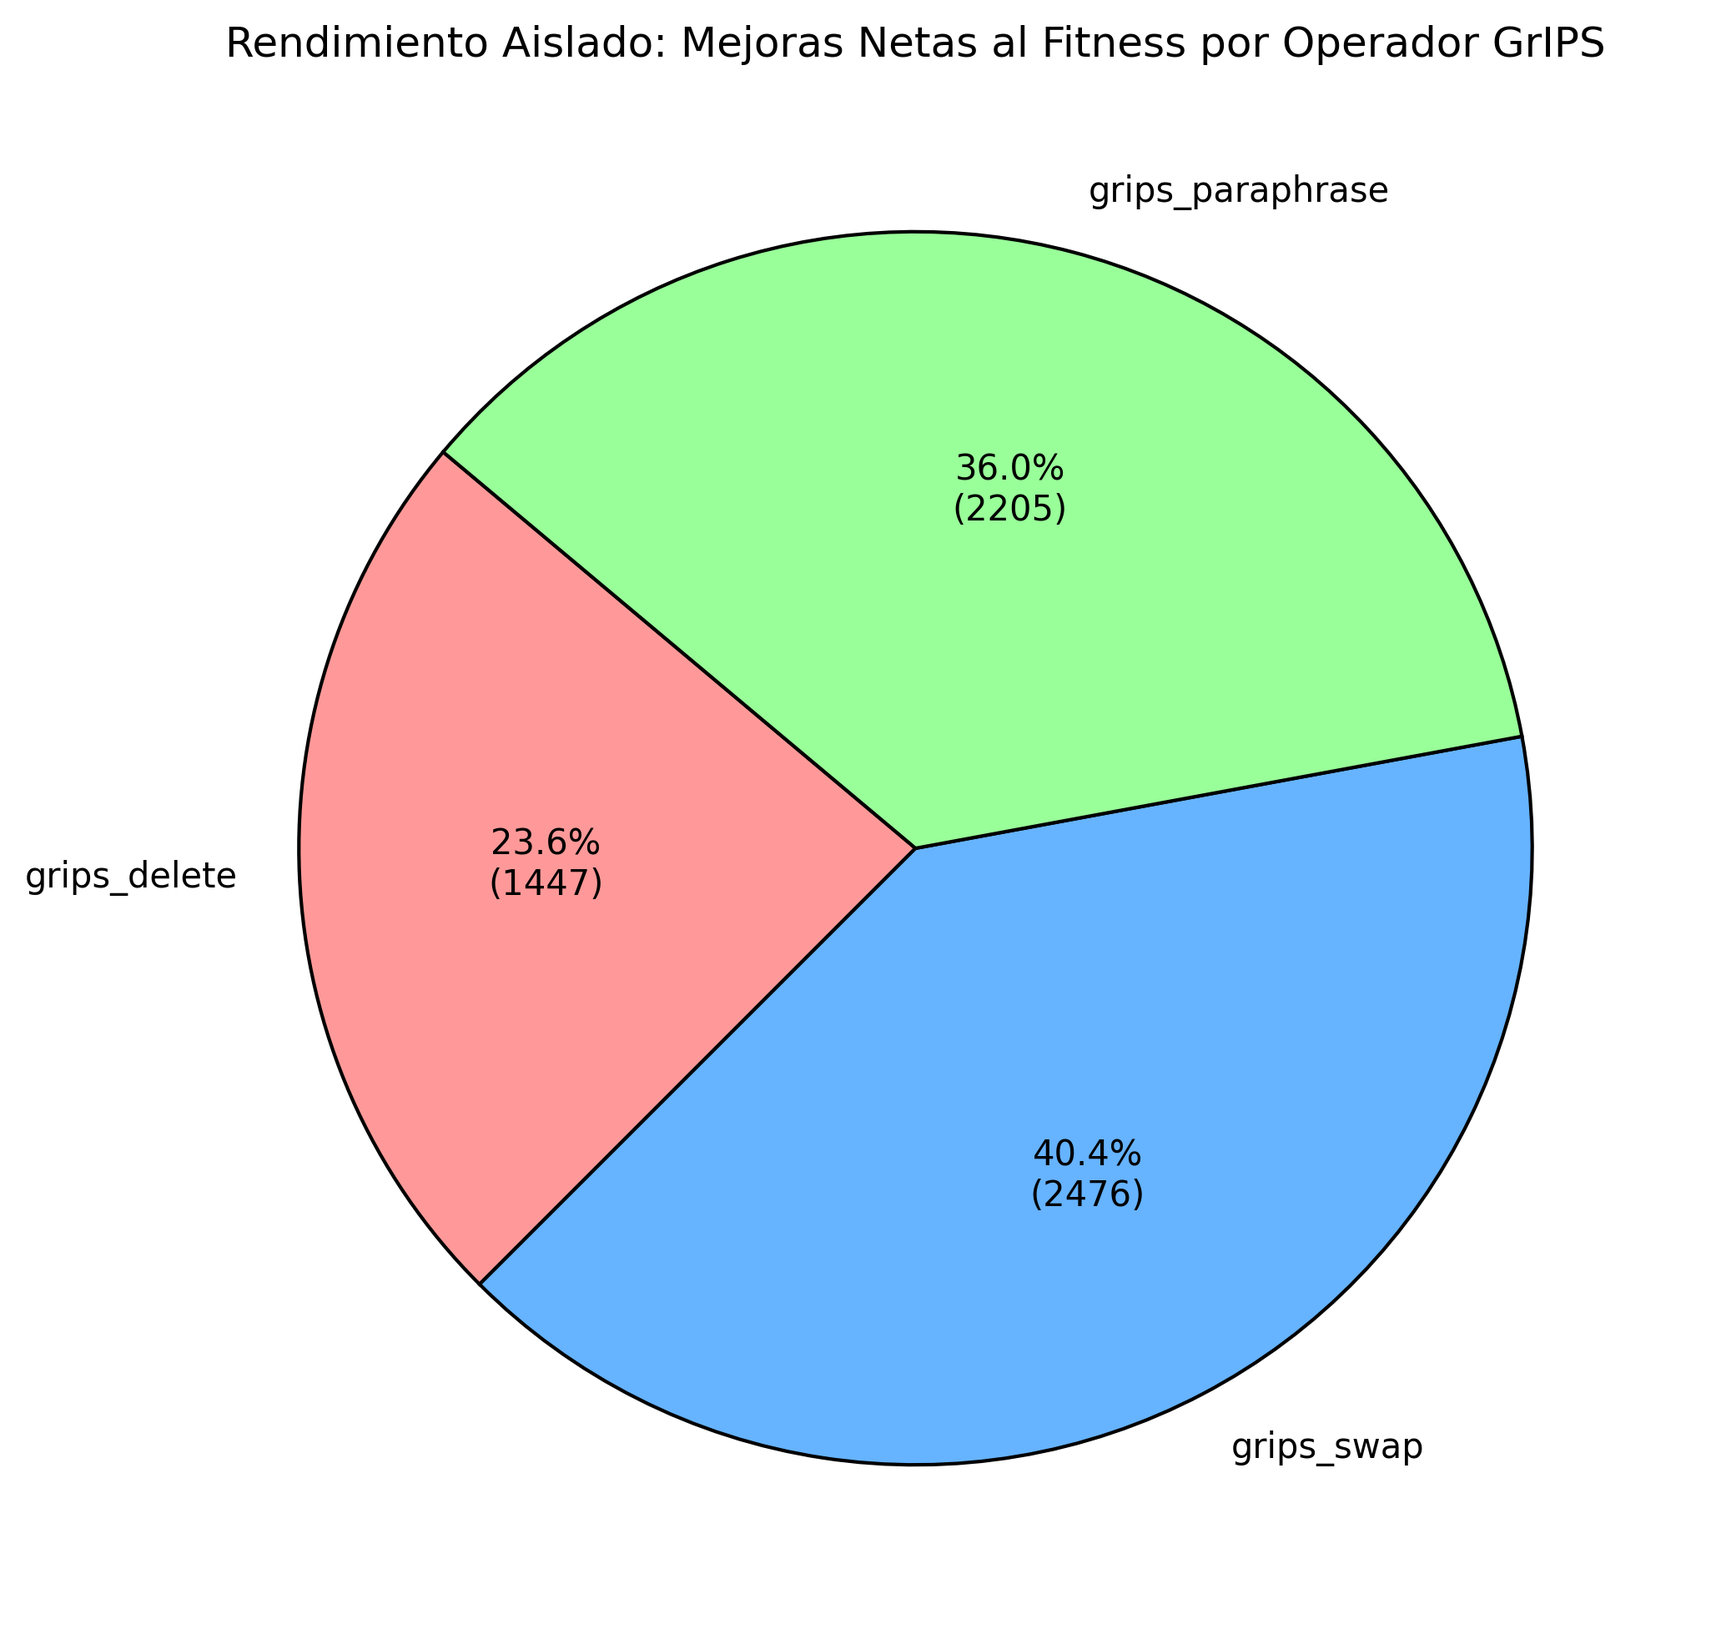
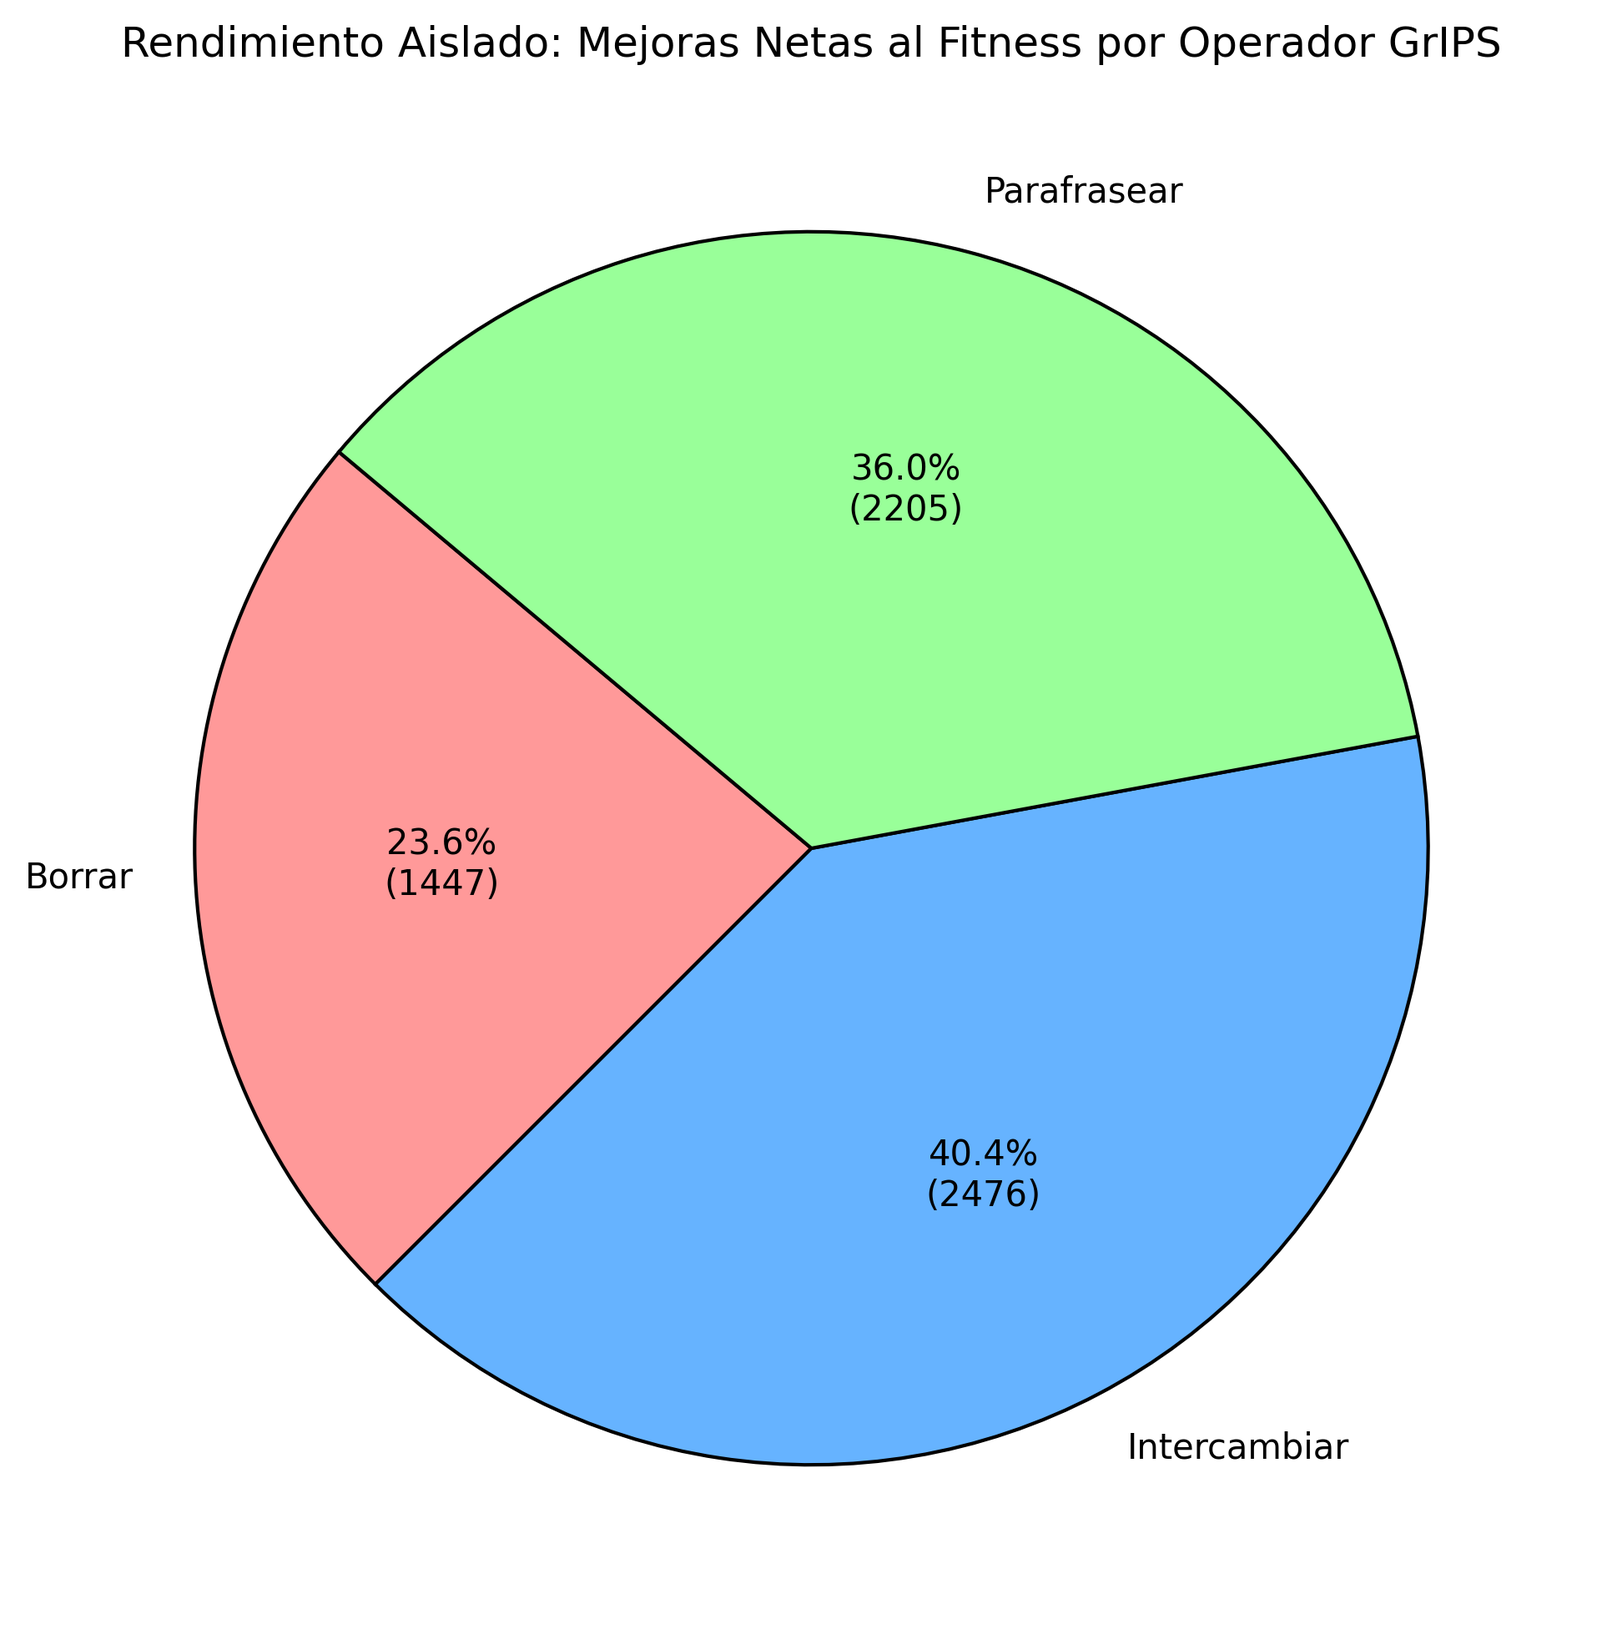
fix: Penultimo

diff --git a/generar_anexos_latex.py b/generar_anexos_latex.py
@@ -1,0 +1,241 @@
+import json
+import os
+import numpy as np
+
+def jaccard_similarity(text1, text2):
+    set1 = set(text1.lower().split())
+    set2 = set(text2.lower().split())
+    union = set1.union(set2)
+    if not union:
+        return 0.0
+    return len(set1.intersection(set2)) / len(union)
+
+def escape_latex(text):
+    chars = {
+        '&': r'\&', '%': r'\%', '$': r'\$', '#': r'\#', '_': r'\_', '{': r'\{', '}': r'\}',
+        '~': r'\textasciitilde{}', '^': r'\textasciicircum{}', '\\': r'\textbackslash{}'
+    }
+    for k, v in chars.items():
+        text = text.replace(k, v)
+    return text
+
+def generar_anexos():
+    ruta_exp1 = os.path.join("Resultados - Exp 1", "exp1_base.json")
+    ruta_exp2 = os.path.join("Resultados - Exp 2", "exp2_sensibilidad.json")
+    ruta_exp3 = os.path.join("Resultados - Exp 3", "exp3_cruzada_off.json")
+    ruta_out = r"C:\Users\renac\Downloads\Memoria\Memoria_Renato_Scatter\tesis-udp\ejemplo\anexos.tex"
+    
+    latex = []
+    latex.append(r"\appendix")
+    latex.append(r"\chapter{Anexos de Resultados Experimentales}")
+    latex.append(r"\label{ch:anexos}")
+    latex.append("")
+    latex.append(r"Este apartado documenta los resultados detallados que respaldan el análisis empírico presentado en el Capítulo \ref{ch:implementacion_evaluacion}.")
+    latex.append("")
+
+    # ==========================================
+    # ANEXO A: HISTORIAL DE CONVERGENCIA (EXP 1)
+    # ==========================================
+    latex.append(r"\section{Anexo A: Historial de Convergencia (Experimento 1)}")
+    if os.path.exists(ruta_exp1):
+        with open(ruta_exp1, "r", encoding="utf-8") as f:
+            runs1 = json.load(f)
+        
+        latex.append(r"\begin{table}[H]")
+        latex.append(r"\centering")
+        latex.append(r"\begin{tabular}{cccccc}")
+        latex.append(r"\toprule")
+        latex.append(r"\textbf{Generación} & \textbf{Corrida 1} & \textbf{Corrida 2} & \textbf{Corrida 3} & \textbf{Corrida 4} & \textbf{Corrida 5} \\")
+        latex.append(r"\midrule")
+        
+        # Asumimos que todas tienen 10 generaciones (0 a 10)
+        num_gens = len(runs1[0]['historial_convergencia'])
+        for g in range(num_gens):
+            fila = [str(g)]
+            for run in runs1:
+                hist = run['historial_convergencia']
+                mejor = hist[g]['mejor_sbert'] if g < len(hist) else hist[-1]['mejor_sbert']
+                fila.append(f"{mejor:.4f}")
+            latex.append(" & ".join(fila) + r" \\")
+            
+        latex.append(r"\bottomrule")
+        latex.append(r"\end{tabular}")
+        latex.append(r"\caption{Evolución del mejor puntaje SBERT por generación a lo largo de 5 ejecuciones independientes (Configuración Base).}")
+        latex.append(r"\label{tab:anexo_a}")
+        latex.append(r"\end{table}")
+        
+        latex.append("")
+        latex.append(r"\noindent \textbf{Tiempos de ejecución:} ")
+        tiempos = [f"C{i+1}: {r['configuracion']['tiempo_ejecucion_minutos']:.2f} min" for i, r in enumerate(runs1)]
+        latex.append(", ".join(tiempos) + ".")
+        latex.append("")
+
+    # ==========================================
+    # ANEXO B: EJEMPLOS CUALITATIVOS (EXP 1)
+    # ==========================================
+    latex.append(r"\newpage")
+    latex.append(r"\section{Anexo B: Ejemplos Cualitativos de Instrucciones (Experimento 1)}")
+    
+    if os.path.exists(ruta_exp1):
+        # Buscamos la mejor corrida (mayor SBERT en última generación)
+        mejor_run = max(runs1, key=lambda x: x['historial_convergencia'][-1]['mejor_sbert'])
+        # Top 5 individuos del refset final
+        top5 = sorted(mejor_run['refset_final'], key=lambda x: x.get('sbert', 0.0), reverse=True)[:5]
+        
+        latex.append(r"A continuación se exponen las cinco mejores instrucciones generadas por la metaheurística SS-GrIPS durante la corrida más exitosa del Experimento Base, contrastadas directamente con el texto objetivo.")
+        latex.append("")
+        
+        for i, ind in enumerate(top5):
+            gen = ind.get('tweet_generado', '')
+            real = ind.get('tweet_real_match', '')
+            sbert = ind.get('sbert', 0.0)
+            jacc = jaccard_similarity(gen, real)
+            
+            latex.append(r"\begin{table}[H]")
+            latex.append(r"\centering")
+            latex.append(r"\begin{tabular}{p{0.45\textwidth} p{0.45\textwidth}}")
+            latex.append(r"\toprule")
+            latex.append(r"\textbf{Texto Objetivo (Original)} & \textbf{Instrucción Generada (SS-GrIPS)} \\")
+            latex.append(r"\midrule")
+            latex.append(f"{escape_latex(real)} & {escape_latex(gen)} \\\\")
+            latex.append(r"\midrule")
+            latex.append(r"\multicolumn{2}{c}{\textbf{Métricas:} SBERT = " + f"{sbert:.4f}" + r" | Jaccard = " + f"{jacc*100:.2f}\\%" + r"} \\")
+            latex.append(r"\bottomrule")
+            latex.append(r"\end{tabular}")
+            latex.append(f"\\caption{{Par cualitativo número {i+1} extraído del Top 5 de la mejor población.}}")
+            latex.append(r"\end{table}")
+            latex.append("")
+
+    # ==========================================
+    # ANEXO C: SENSIBILIDAD (EXP 2)
+    # ==========================================
+    latex.append(r"\newpage")
+    latex.append(r"\section{Anexo C: Datos de Sensibilidad (Experimento 2)}")
+    if os.path.exists(ruta_exp2):
+        with open(ruta_exp2, "r", encoding="utf-8") as f:
+            data2 = json.load(f)
+            
+        orden = ['conf_G5_R10', 'conf_G10_R5', 'conf_G10_R10', 'conf_G15_R10', 'conf_G10_R15']
+        
+        latex.append(r"\begin{table}[H]")
+        latex.append(r"\centering")
+        latex.append(r"\begin{tabular}{l c c c | c c}")
+        latex.append(r"\toprule")
+        latex.append(r"\textbf{Configuración} & \textbf{Corrida 1} & \textbf{Corrida 2} & \textbf{Corrida 3} & \textbf{Prom. SBERT} & \textbf{Prom. Tiempo} \\")
+        latex.append(r"\midrule")
+        
+        for c in orden:
+            if c in data2:
+                runs = data2[c]
+                sberts = [r['historial_convergencia'][-1]['mejor_sbert'] for r in runs]
+                tiempos = [r['configuracion']['tiempo_ejecucion_minutos'] for r in runs]
+                
+                # Completar si hay menos de 3 corridas
+                while len(sberts) < 3:
+                    sberts.append(0.0)
+                
+                prom_sbert = np.mean(sberts)
+                prom_tiempo = np.mean(tiempos)
+                
+                fila = f"{escape_latex(c)} & {sberts[0]:.4f} & {sberts[1]:.4f} & {sberts[2]:.4f} & \textbf{{{prom_sbert:.4f}}} & \textbf{{{prom_tiempo:.1f} m}} \\\\"
+                latex.append(fila)
+        
+        latex.append(r"\bottomrule")
+        latex.append(r"\end{tabular}")
+        latex.append(r"\caption{Métricas detalladas para el análisis de sensibilidad según configuración de hiperparámetros.}")
+        latex.append(r"\label{tab:anexo_c}")
+        latex.append(r"\end{table}")
+        latex.append("")
+
+    # ==========================================
+    # ANEXO D: DATA LEAKAGE (EXP 3)
+    # ==========================================
+    latex.append(r"\newpage")
+    latex.append(r"\section{Anexo D: Efecto Data Leakage (Experimento 3)}")
+    if os.path.exists(ruta_exp1) and os.path.exists(ruta_exp3):
+        with open(ruta_exp3, "r", encoding="utf-8") as f:
+            runs3 = json.load(f)
+            
+        # Tomamos 3 corridas del exp1 (ON) y 3 del exp3 (OFF)
+        runs_on = runs1[:3]
+        runs_off = runs3[:3]
+        
+        latex.append(r"\begin{table}[H]")
+        latex.append(r"\centering")
+        latex.append(r"\begin{tabular}{c | c c | c c}")
+        latex.append(r"\toprule")
+        latex.append(r" & \multicolumn{2}{c|}{\textbf{Validación Cruzada (ON)}} & \multicolumn{2}{c}{\textbf{Data Leakage (OFF)}} \\")
+        latex.append(r"\textbf{Corrida} & \textbf{SBERT} & \textbf{Jaccard} & \textbf{SBERT} & \textbf{Jaccard} \\")
+        latex.append(r"\midrule")
+        
+        sum_sbert_on = sum_jacc_on = sum_sbert_off = sum_jacc_off = 0
+        
+        for i in range(3):
+            # ON
+            sbert_on = runs_on[i]['historial_convergencia'][-1]['mejor_sbert']
+            jaccs_on = [jaccard_similarity(ind.get('tweet_generado',''), ind.get('tweet_real_match','')) for ind in runs_on[i]['refset_final']]
+            jacc_on = np.mean(jaccs_on)
+            
+            # OFF
+            sbert_off = runs_off[i]['historial_convergencia'][-1]['mejor_sbert']
+            jaccs_off = [jaccard_similarity(ind.get('tweet_generado',''), ind.get('tweet_real_match','')) for ind in runs_off[i]['refset_final']]
+            jacc_off = np.mean(jaccs_off)
+            
+            sum_sbert_on += sbert_on; sum_jacc_on += jacc_on
+            sum_sbert_off += sbert_off; sum_jacc_off += jacc_off
+            
+            latex.append(f"{i+1} & {sbert_on:.4f} & {jacc_on*100:.2f}\\% & {sbert_off:.4f} & {jacc_off*100:.2f}\\% \\\\")
+            
+        latex.append(r"\midrule")
+        prom_sbert_on = sum_sbert_on/3; prom_jacc_on = sum_jacc_on/3
+        prom_sbert_off = sum_sbert_off/3; prom_jacc_off = sum_jacc_off/3
+        latex.append(f"\\textbf{{Promedio}} & \\textbf{{{prom_sbert_on:.4f}}} & \\textbf{{{prom_jacc_on*100:.2f}\\%}} & \\textbf{{{prom_sbert_off:.4f}}} & \\textbf{{{prom_jacc_off*100:.2f}\\%}} \\\\")
+        
+        latex.append(r"\bottomrule")
+        latex.append(r"\end{tabular}")
+        latex.append(r"\caption{Comparativa directa del influjo de métricas al evaluar el algoritmo sobre su propio conjunto de datos (Data Leakage).}")
+        latex.append(r"\label{tab:anexo_d}")
+        latex.append(r"\end{table}")
+        latex.append("")
+
+    # ==========================================
+    # ANEXO E: ESTADÍSTICAS GRIPS (EXP 1)
+    # ==========================================
+    latex.append(r"\newpage")
+    latex.append(r"\section{Anexo E: Rendimiento de los Operadores GrIPS (Experimento 1)}")
+    if os.path.exists(ruta_exp1):
+        latex.append(r"\begin{table}[H]")
+        latex.append(r"\centering")
+        latex.append(r"\begin{tabular}{l c c c c}")
+        latex.append(r"\toprule")
+        latex.append(r"\textbf{Operador} & \textbf{Intentos Totales} & \textbf{Éxitos Totales} & \textbf{Tasa de Éxito} & \textbf{Aporte SBERT Total} \\")
+        latex.append(r"\midrule")
+        
+        totales = {"grips_delete": [0,0,0.0], "grips_swap": [0,0,0.0], "grips_paraphrase": [0,0,0.0]}
+        for run in runs1:
+            for op in totales.keys():
+                st = run["stats_grips"].get(op, {})
+                totales[op][0] += st.get("intentos", 0)
+                totales[op][1] += st.get("exitos", 0)
+                totales[op][2] += st.get("mejora_acumulada", 0.0)
+                
+        for op, vals in totales.items():
+            intentos = vals[0]
+            exitos = vals[1]
+            mejora = vals[2]
+            tasa = (exitos / intentos * 100) if intentos > 0 else 0
+            latex.append(f"{escape_latex(op)} & {intentos} & {exitos} & {tasa:.2f}\\% & {mejora:.4f} \\\\")
+            
+        latex.append(r"\bottomrule")
+        latex.append(r"\end{tabular}")
+        latex.append(r"\caption{Estadísticas acumuladas de los operadores de edición tras 5 corridas. El operador Add fue retirado por ineficacia empírica.}")
+        latex.append(r"\label{tab:anexo_e}")
+        latex.append(r"\end{table}")
+
+    # Escribir el archivo
+    with open(ruta_out, "w", encoding="utf-8") as f:
+        f.write("\n".join(latex))
+    print(f"Anexos generados con exito en: {ruta_out}")
+
+if __name__ == "__main__":
+    generar_anexos()

diff --git a/run_comparativa.py b/run_comparativa.py
@@ -159,6 +159,78 @@ def experimento_4_temperaturas():
         json.dump(resultados_totales, f, indent=4, ensure_ascii=False)
     print("\n✅ Experimento 4 Finalizado. Resultados guardados en exp4_temperaturas.json")
 
+def experimento_5_inicializacion():
+    print("\n" + "="*50)
+    print(" INICIANDO EXPERIMENTO 5: TEMPERATURA EN INICIALIZACIÓN")
+    print("="*50)
+    
+    resultados_totales = {}
+    temperaturas = [0.1, 0.3, 0.5, 0.7, 0.9]
+    
+    for temp in temperaturas:
+        config_name = f"conf_T{temp}"
+        resultados_totales[config_name] = []
+        
+        for i in range(1, 4):
+            print(f"\n>> Corriendo Exp 5 (Temp={temp}) - Ejecución {i}/3")
+            tiempo_inicio = time.time()
+            
+            ss = ScatterSearch(
+                tamano_poblacion=40,
+                tamano_refset=10,
+                validacion_cruzada=True,
+                llm_model_name=MODELO_LLM,
+                sbert_model_name=MODELO_SBERT,
+                max_tokens_salida=MAX_TOKENS,
+                semilla_global=None,
+                temp_inicial=temp
+            )
+            
+            poblacion = ss.generar_poblacion_inicial_llm()
+            
+            sberts = []
+            fallbacks = 0
+            palabras_totales = set()
+            
+            print(f"  Evaluando {len(poblacion)} prompts iniciales...")
+            for sol in poblacion:
+                if sol.origen == "init_llm_fallback":
+                    fallbacks += 1
+                
+                # Evaluar prompt
+                texto_gen = ss.llm.invocar(sol.prompt_completo)
+                sol.dato_generado = texto_gen
+                
+                max_sbert = 0.0
+                for ref in ss.textos_referencia:
+                    sim = ss.evaluador.calcular_calidad_sbert(texto_gen, ref)
+                    if sim > max_sbert:
+                        max_sbert = sim
+                sberts.append(max_sbert)
+                
+                # Diversidad léxica basada en el PROMPT generado (Role/Task)
+                palabras_prompt = sol.prompt_completo.lower().split()
+                palabras_totales.update(palabras_prompt)
+                
+            tiempo_fin = time.time()
+            
+            salida = {
+                "temperatura": temp,
+                "corrida": i,
+                "sbert_maximo": float(max(sberts)) if sberts else 0.0,
+                "sbert_promedio": float(sum(sberts)/len(sberts)) if sberts else 0.0,
+                "fallbacks": fallbacks,
+                "diversidad_lexica": len(palabras_totales),
+                "tiempo_minutos": (tiempo_fin - tiempo_inicio) / 60.0,
+                "prompts_generados": [{"rol": s.rol, "tarea": s.tarea, "origen": s.origen, "sbert": float(sberts[idx])} for idx, s in enumerate(poblacion)]
+            }
+            
+            resultados_totales[config_name].append(salida)
+            
+    with open("exp5_inicializacion.json", "w", encoding="utf-8") as f:
+        json.dump(resultados_totales, f, indent=4, ensure_ascii=False)
+    print("\n✅ Experimento 5 Finalizado. Resultados guardados en exp5_inicializacion.json")
+
 if __name__ == "__main__":
     # Forzamos la inicialización LLM para todas las pruebas
     ScatterSearch.generar_poblacion_inicial = ScatterSearch.generar_poblacion_inicial_llm
@@ -166,19 +238,12 @@ if __name__ == "__main__":
     tiempo_inicio = time.time()
     
     # experimento_1_base()
-    
-    # print("\n[PAUSA TÉCNICA] Enfriando sistema por 10 segundos...")
-    # time.sleep(10)
-    
     # experimento_2_sensibilidad()
-    
-    # print("\n[PAUSA TÉCNICA] Enfriando sistema por 10 segundos...")
-    # time.sleep(10)
-    
     # experimento_3_data_leakage()
+    # experimento_4_temperaturas()
     
-    experimento_4_temperaturas()
+    experimento_5_inicializacion()
     
     tiempo_total = time.time() - tiempo_inicio
     print(f"\n🎉 TODA LA BATERÍA DE EXPERIMENTOS COMPLETADA EN {tiempo_total/60:.2f} MINUTOS.")
-    print("Revisar resultados en exp4_temperaturas.json.")
+    print("Revisar resultados en exp5_inicializacion.json.")

diff --git a/scatter_search.py b/scatter_search.py
@@ -13,11 +13,13 @@ class ScatterSearch:
                  llm_model_name="llama3.1:8b",
                  sbert_model_name="all-MiniLM-L6-v2",
                  max_tokens_salida=150,
-                 semilla_global=None):
+                 semilla_global=None,
+                 temp_inicial=0.9):
         """
         Inicializa el algoritmo recibiendo todos los hiperparámetros desde la función principal.
         """
         self.P_size = tamano_poblacion
+        self.temp_inicial = temp_inicial
         self.b = tamano_refset
         self.b_elite = self.b // 2
         self.b_div = self.b - self.b_elite
@@ -106,8 +108,8 @@ class ScatterSearch:
             )
             
             try:
-                # Temperatura de 0.9 para fomentar la creatividad inicial
-                respuesta = self.llm.invocar(prompt_meta, system_prompt="You are an expert prompt engineer.", temp=0.9)
+                # Usamos la temperatura de inicialización configurada
+                respuesta = self.llm.invocar(prompt_meta, system_prompt="You are an expert prompt engineer.", temp=self.temp_inicial)
                 if "Role:" in respuesta and "Task:" in respuesta:
                     partes = respuesta.split("Task:")
                     rol = partes[0].replace("Role:", "").strip()

diff --git a/Resultados - Exp 1/scripts/generar_torta_grips.py b/Resultados - Exp 1/scripts/generar_torta_grips.py
@@ -18,7 +18,8 @@ def generar_torta_grips():
                 if op in total_stats:
                     total_stats[op] += stats.get("exitos", 0)
                 
-    labels = list(total_stats.keys())
+    # Cambiamos los nombres a español para el gráfico
+    labels = ["Borrar", "Intercambiar", "Parafrasear"]
     sizes = list(total_stats.values())
     
     if sum(sizes) == 0:
